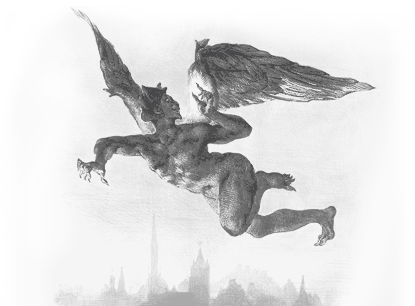
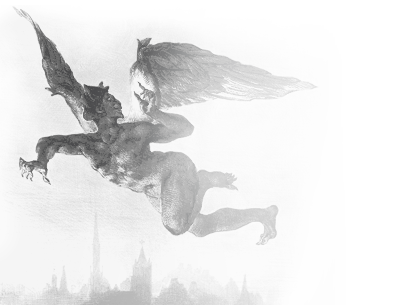
Enlarge slideshow to the entire window
Also remove active link highlighting from slides.

Working on https://github.com/faustedition/faust-web/issues/279

diff --git a/css/slick-custom.css b/css/slick-custom.css
@@ -1,7 +1,7 @@
 /* style for slider */
 .slider {
   display:none;
-  margin:-0.6em -1em 0.6em !important;
+  margin:0 -1em 0.6em !important;
   background: rgb(235,228,221); /* Old browsers */
   background: -moz-radial-gradient(center, ellipse cover,  rgb(235,228,221) 0%, rgb(185,170,156) 100%); /* FF3.6-15 */
   background: -webkit-radial-gradient(center, ellipse cover,  rgb(235,228,221) 0%,rgb(185,170,156) 100%); /* Chrome10-25,Safari5.1-6 */
@@ -13,8 +13,44 @@
     display: block;
 }
 
+.slick-dots {
+  bottom:30px;
+}
+
+.slider .slide-left, .slider .slide-right {
+   background-position:center center;
+   background-repeat:no-repeat, repeat;
+   background-size:contain, auto;
+}
+
+.slider .slide-left {
+    background-position:left center, center center;
+}
+
+.slider .slide-left .text {
+    padding-left:40%;
+}
+
+.slider .slide-right {
+    background-position:right center, center center;
+}
+
+.slider .slide-right .text {
+    padding-right:40%;
+}
+
+.slider .center img {
+  -webkit-filter: grayscale(100%);
+  filter: grayscale(100%);
+}
+
+.slider .center img:hover {
+  -webkit-filter: none;
+  filter: none;
+}
+
 .slider .center {
-  min-height:300px;
+  max-width:75%;
   overflow:hidden;
   display:table;
 }
@@ -24,10 +60,18 @@
   vertical-align: middle;
 }
 
-.slider .center h2 {
+.slider .text * {
+  text-align:left !important;
+}
+
+.slider .text *:first-child {
   margin-top:0;
 }
 
-.slider .center p {
-  margin:0;
+.slider .text *:last-child {
+  margin-bottom:0;
+}
+
+.slider .text .pure-button ~ .pure-button {
+  margin-left:1em;
 }

diff --git a/css/basic_layout.css b/css/basic_layout.css
@@ -24,14 +24,6 @@ header {
   display:table;
 }
 
-.active-link {
-  /* border-bottom: 3px solid rgb(250,190,0) !important; */
-  background-color: rgb(250,190,0);
-}
-.active-link * {
-  color: black !important;
-}
-
 header > * {
   display:table-cell;
   vertical-align:middle;
@@ -233,6 +225,9 @@ a[href^="//"]:after, a[href^="https://"]:after, a[href^="http://"]:after {
 }
 a[href^="http://beta.faustedition.net/"]:after, a.undecorated:after {
   content: "";
+}
+a.undecorated {
+  border:none;
 }
 
 /* ********************** */

diff --git a/index.php b/index.php
@@ -1,23 +1,34 @@
+<?php $showFooter = false; ?>
 <?php include "includes/header.php"; ?>
 <section class="pure-noprint">
   <div class="slider">
-    <div>
-      <div data-active-link="nav_all" class="center">
-        <img src="img/slider/mephisto.png" height="256">
+    <div class="slide-left" style="background-image:url(img/slider/mephisto.png);">
+      <div class="center">
         <div class="text">
+          <h2>Johann Wolfgang Goethe: Faust</h2>
+          <h3>Historisch-kritische Edition</h3>
               <p>Die digitale Faustedition besteht aus einem <a href="/archive"
                       >Archiv</a> der Handschriften und der zu Lebzeiten erschienenen
                   textkritisch relevanten Drucke zum Faust, einem Lesetext des <a
                       href="/print/faust1.html">Faust I</a> und des <a
                       href="/print/faust2.html">Faust II</a> sowie Visualisierungen zur <a
                       href="/genesis">Genese</a> des Werks.</p>
+              <p>
+                <a class="pure-button pure-button-primary" href="/archive">Archiv</a>
+                <a class="pure-button pure-button-primary" href="/genesis">Genese</a>
+                <a class="pure-button pure-button-primary" href="/text">Text</a>
+              </p>
+              <p>
+                <a class="pure-button" href="/intro">Über die Ausgabe</a>
+              </p>
+
+              <p><a class="undecorated" href="http://www.dfg.de" target="_blank"><img alt="DFG - Deutsche Forschungsgesellschaft" src="img/DFG-Logo.svg" width="175"></a></p>
         </div>
       </div>
     </div>
 
-    <div data-active-link="nav_archive" style="background:#b7b18f url(img/slider/2-II-H.1-bg.png) center center;">
+    <div class="slide-right" style="background-color:#b7b18f; background-image:url(img/slider/2-II-H.1.png), url(img/slider/2-II-H.1-bg.png);">
       <div class="center">
-        <img src="img/slider/2-II-H.1.png" height="256">
         <div class="text">
           <h2>Archiv</h2>
               <p>Zum Faust ist <a href="/archive_locations?view=archives">weltweit</a>
@@ -28,24 +39,29 @@
                   der Zeit von von etwa 1774 bis 1831 erhalten. Das <a href="/archive"
                       >Archiv</a> macht die gesamte Überlieferung in Abbildungen,
                   Transkriptionen und Zeugenbeschreibungen zugänglich.</p>
+              <p>
+                <a class="pure-button pure-button-primary" href="/archive">Archiv</a>
+              </p>
         </div>
       </div>
     </div>
 
-    <div data-active-link="nav_genesis" style="background:#d8d5ca url(img/slider/H-P123.5-hg.png) center center;">
+    <div class="slide-left" style="background-color:#d8d5ca; background-image:url(img/slider/H-P123.5.png), url(img/slider/H-P123.5-hg.png);">
       <div class="center">
-        <img src="img/slider/H-P123.5.png" height="256">
         <div class="text">
           <h2>Genese</h2>
               <p>Goethe hat beinahe in jeder Phase seines Lebens an dem Werkprojekt Faust
                   gearbeitet. Verschiedene Grafiken stellen die <a
                       href="/genesis">Genese</a> von Goethes Faust
                   retrospektiv, d.h. vom abgeschlossenen Werk ausgehend dar.</p>
+              <p>
+                <a class="pure-button pure-button-primary" href="/genesis">Genese</a>
+              </p>
         </div>
       </div>
     </div>
 
-    <div data-active-link="nav_text" style="background:#cdc6ac url(img/slider/2-H-hg.png) center center;">
+    <div class="slide-right" style="background-color:#cdc6ac; background-image:url(img/slider/2-H.png), url(img/slider/2-H-hg.png);">
       <div class="center">
         <div class="text">
           <h2>Text</h2>
@@ -54,8 +70,10 @@
                   der großen Reinschrift, die heute im Goethe- und Schiller-Archiv liegt. Vom
                   Text aus sind alle übrigen handschriftlichen und gedruckten Fassungen
                   erreichbar.</p>
+              <p>
+                <a class="pure-button pure-button-primary" href="/text">Text</a>
+              </p>
         </div>
-        <img src="img/slider/2-H.png" height="256">
       </div>
     </div>
   </div>
@@ -64,6 +82,12 @@
 <script type="text/javascript" src="js/jquery.slick.min.js"></script>
 <script type="text/javascript">
   jQuery(document).ready(function($){
+    $(window).resize(function(event) {
+      $('.slider .center').css('height', $('main').css('height')); // adjust slider height
+    });
+    
+    $(document).trigger('resize'); /* onload */
+
     var slideshow = $('.slider').slick({
       adaptiveHeight: true,
       dots:true,
@@ -78,27 +102,11 @@
         }
       ]
     });
+
     slideshow.slick('slickPlay'); // autoplay
+
     $('.slider *').click(function () {      
         slideshow.slick('slickPause'); // stop on click
-    });
-    $('.slider').on('afterChange', function(event, slick, currentSlide) {
-      var currId = slick.$slides.get(currentSlide).dataset.activeLink;
-      if (currId) {
-          currId.split(' ').forEach(function(id) {
-            var link = document.getElementById(id);
-            if (link) { link.classList.add('active-link'); }
-          });
-      }
-    });
-    $('.slider').on('beforeChange', function(event, slick, currentSlide, nextSlide) {
-      var currId = slick.$slides.get(currentSlide).dataset.activeLink;
-      if (currId) {
-          currId.split(' ').forEach(function(id) {
-            var link = document.getElementById(id);
-            if (link) { link.classList.remove('active-link'); }
-          });
-      }
     });
   });
 </script>
@@ -108,10 +116,9 @@
   
   <article class="pure-u-3-5 pure-gap pure-center">
 
-    <h2>Johann Wolfgang Goethe: Faust</h2>
-    <h3>Historisch-kritische Edition</h3>
+    <h3>Herausgegeben von &hellip;</h3>
     <p>
-      Herausgegeben von Anne Bohnenkamp, Silke Henke und Fotis Jannidis<br>
+      Anne Bohnenkamp, Silke Henke und Fotis Jannidis<br>
       unter Mitarbeit von Gerrit&nbsp;Brüning, Katrin&nbsp;Henzel, Christoph&nbsp;Leijser, Gregor&nbsp;Middell, Dietmar&nbsp;Pravida,  Thorsten&nbsp;Vitt und Moritz&nbsp;Wissenbach<br>
       Frankfurt am Main, Weimar, Würzburg 2016
     </p>
@@ -120,8 +127,7 @@
       <a class="pure-button pure-button-tile" href="project">Mitwirkende</a>
     </p>
 
-
-    <p><a class="undecorated" href="http://www.dfg.de" target="_blank"><img style="vertical-align:middle; height:45px; margin-top:-8px;" alt="DFG - Deutsche Forschungsgesellschaft" src="img/DFG-Logo.png"></a></p>
+    <p><a class="undecorated" href="http://www.dfg.de" target="_blank"><img alt="DFG - Deutsche Forschungsgesellschaft" src="img/DFG-Logo.svg" width="250"></a></p>
   </article>
 
   <div class="pure-u-1-5"></div>
